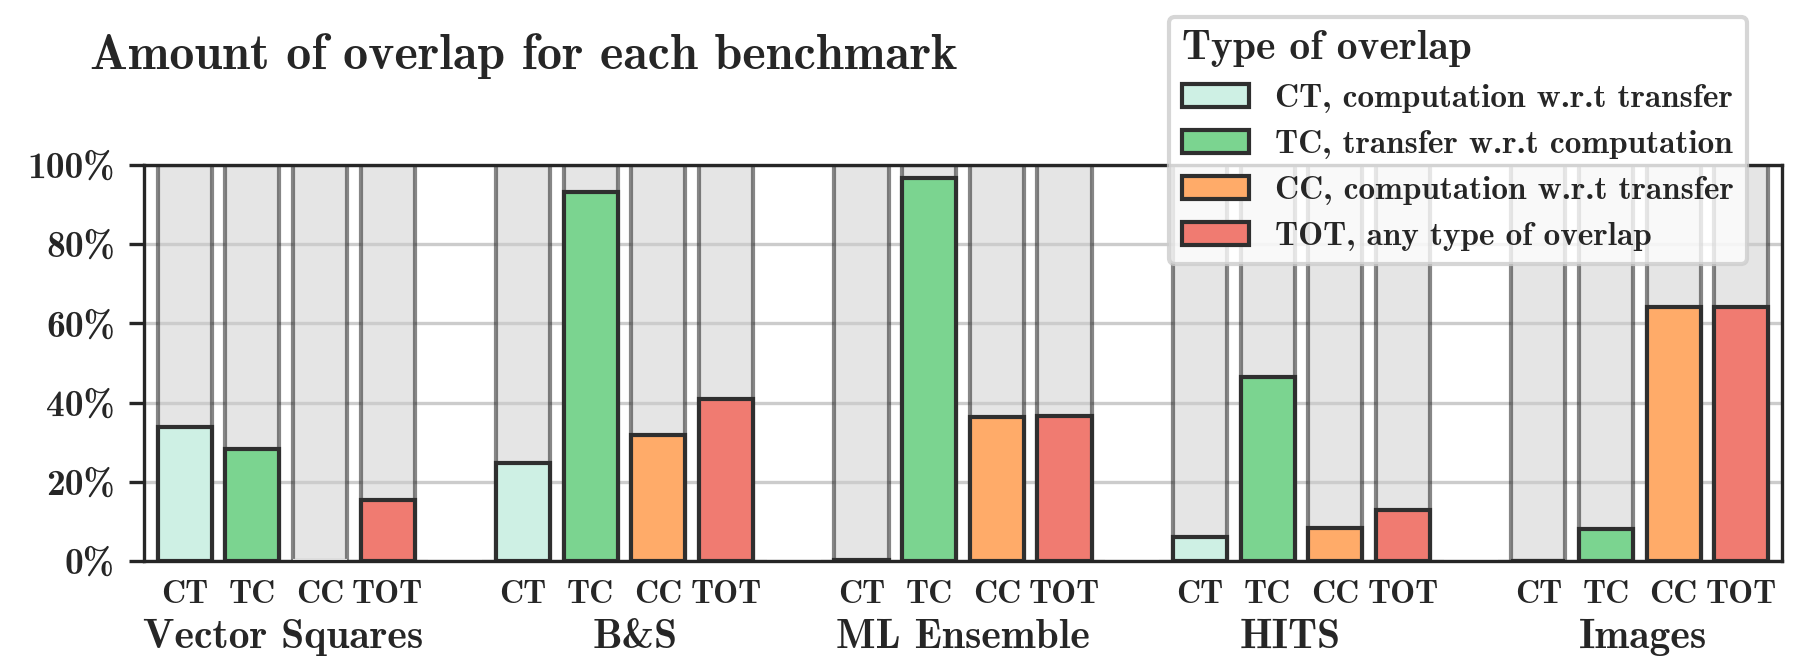
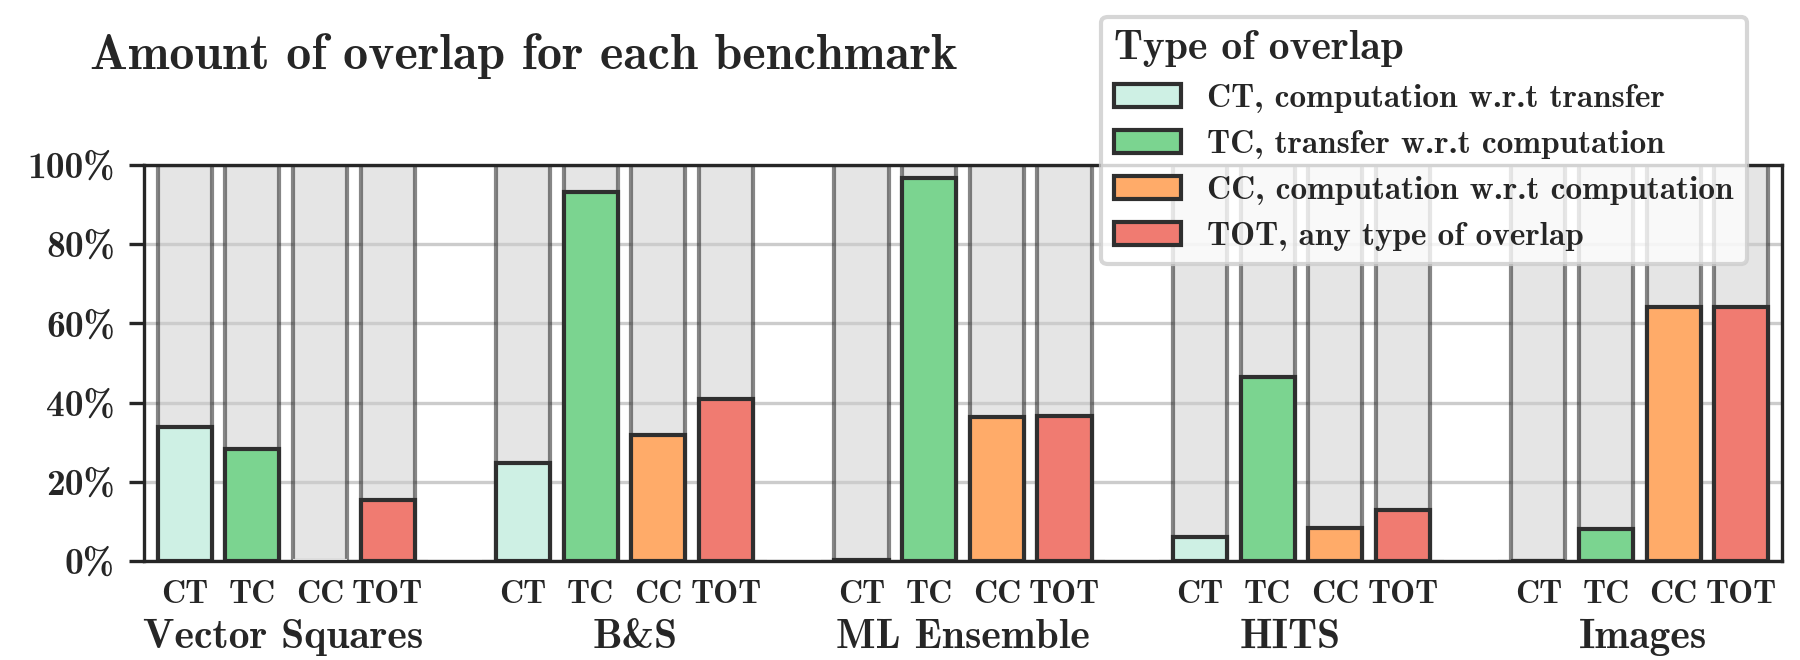
fixed overlap plot

Changed region(s): [[0.5911, 0.0, 0.9644, 0.4242]]

diff --git a/projects/resources/python/plotting/plot_transfer_computation_overlap.py b/projects/resources/python/plotting/plot_transfer_computation_overlap.py
@@ -30,7 +30,7 @@ BENCHMARK_NAMES = {"b1": "Vector Squares", "b5": "B&S", "b6": "ML Ensemble", "b7
 LABEL_DICT = {"ct_overlap_perc": "CT", "tc_overlap_perc": "TC", "cc_overlap_perc": "CC", "total_overlap_perc": "TOT", "fake_perc": ""}
 LABEL_LEGEND_DICT = {"ct_overlap_perc": "CT, computation w.r.t transfer",
                      "tc_overlap_perc": "TC, transfer w.r.t computation",                 
-                     "cc_overlap_perc": "CC, computation w.r.t transfer",
+                     "cc_overlap_perc": "CC, computation w.r.t computation",
                      "total_overlap_perc": "TOT, any type of overlap"
                      }
 
